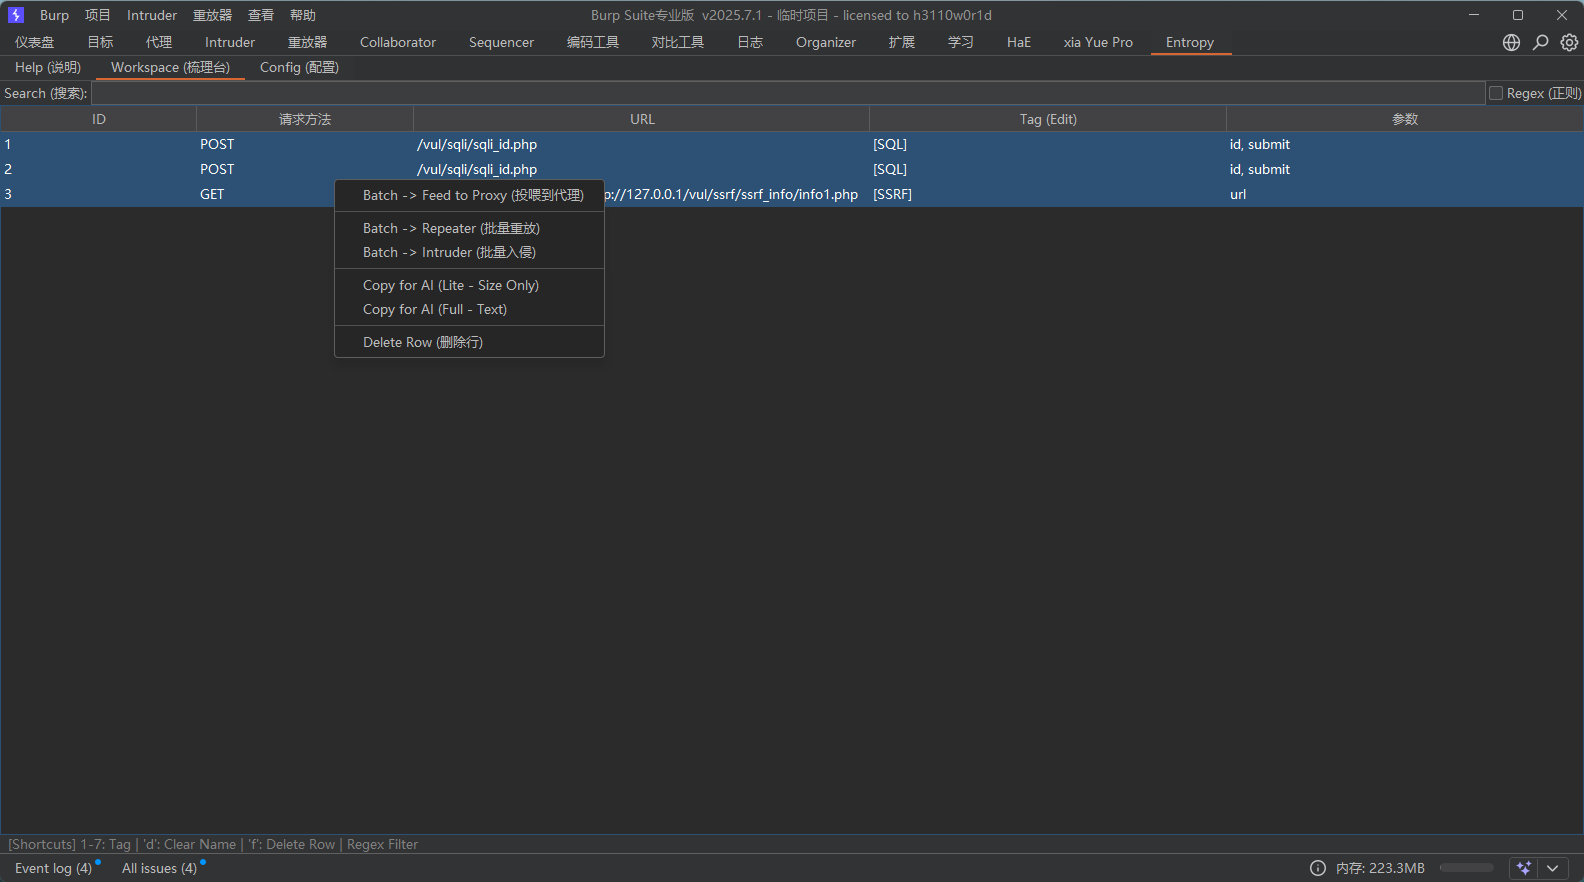
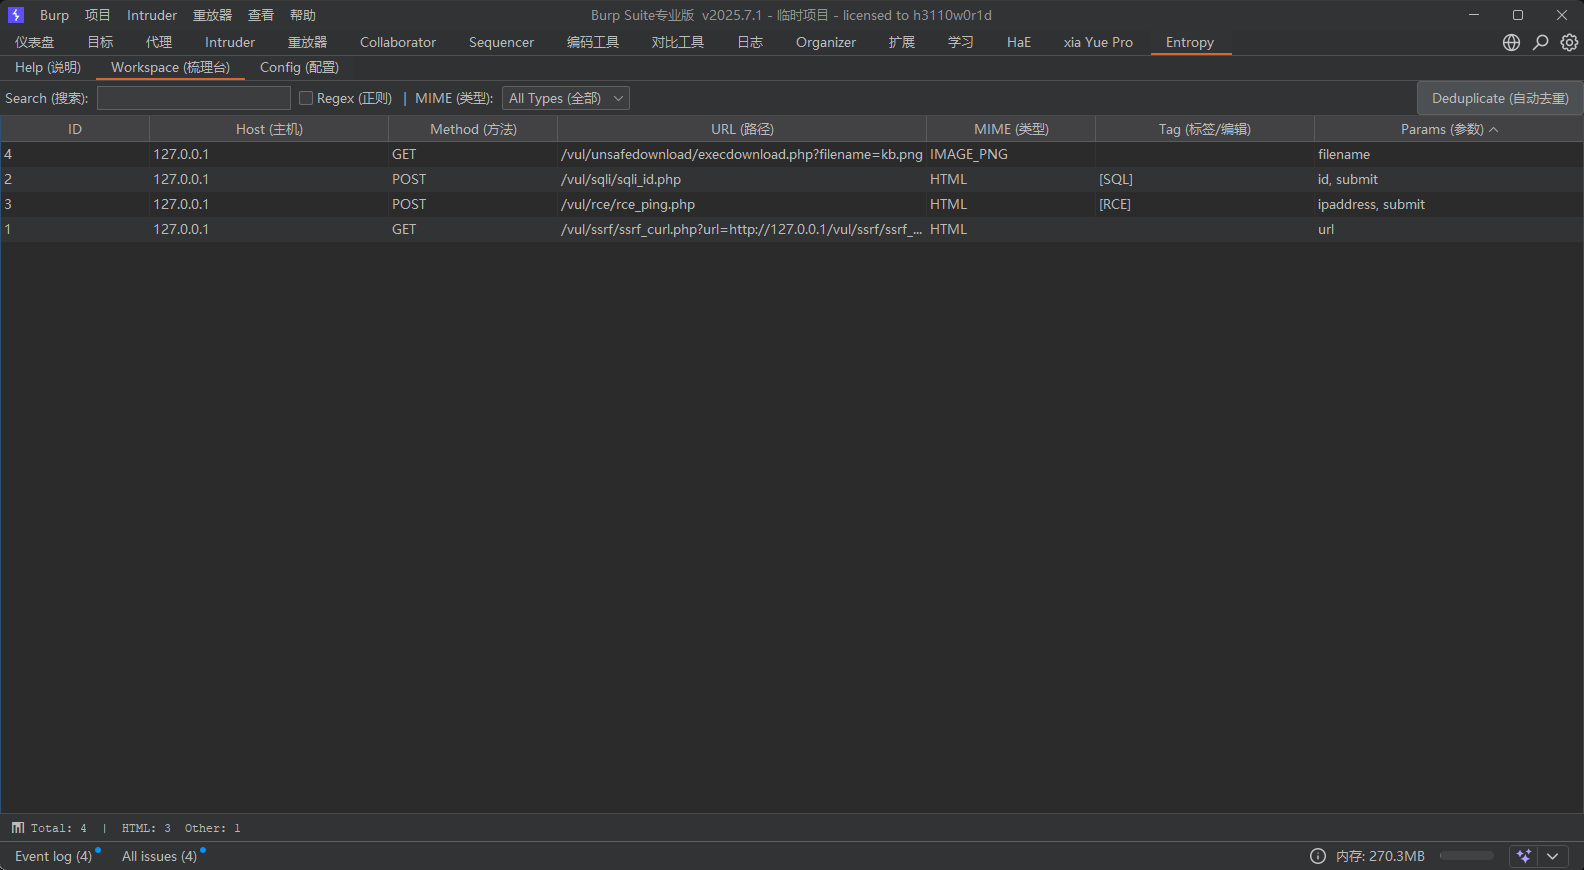
Update: Enhance Workspace context menu with full features (Intruder, AI Copy)

diff --git a/Tools/Entropy/README.md b/Tools/Entropy/README.md
@@ -1,90 +1,150 @@
-# Entropy
-**Burp Suite Workflow Enhancement Tool / Burp Suite 工作流增强工具**
-
-[![Release](https://img.shields.io/github/v/release/xgbtxy/Negentropy-Collective?include_prereleases&style=flat-square)](https://github.com/xgbtxy/Negentropy-Collective/releases)
-[![Author](https://img.shields.io/badge/Author-xgbtxy-blue?style=flat-square)](https://github.com/xgbtxy)
-
-**Entropy** is a Burp Suite extension designed to streamline traffic analysis and automate workflows between Burp and other scanners (like Xray). It bridges the gap between manual analysis and automated scanning.
-
-**Entropy** 是一款 Burp Suite 扩展插件，旨在优化流量分析流程，并打通 Burp 与其他扫描器（如 Xray）之间的自动化工作流。它有效连接了人工分析与自动化扫描的断层。
-
----
-
-## 🚀 Key Features / 核心功能
-
-### 1. Advanced Workspace (流量梳理台)
-A dedicated tab to manage and analyze interesting packets without cluttering your HTTP history.
-一个独立的操作台，用于管理和分析感兴趣的数据包，避免污染主历史记录。
-
-* **Smart Filtering:** Search packets using **Regex** or **Keywords**.
-    (智能过滤：支持正则表达式或关键字快速检索数据包。)
-* **Tagging System:** Custom tags and notes added in the Workspace will **auto-sync to Repeater tab titles**, making it easy to identify tabs.
-    (标签联动：在梳理台修改的备注或标签，会自动同步修改 Repeater 的标签页标题，便于识别。)
-* **Quick Actions:** Support custom hotkeys for rapid marking.
-    (快捷操作：支持自定义快捷键进行快速标记。)
-
-### 2. Batch Operations (批量联动)
-* **Batch Feed to Proxy:** Select multiple "valuable" packets and forward them to a local listening proxy (e.g., **Xray**, Rad) for targeted fuzzing.
-    (批量投喂被动扫描：选中多个有价值的数据包，一键转发给本地监听器（如 Xray/Rad 挂的代理）进行定向漏洞 Fuzz。)
-* **Batch to Repeater/Intruder:** Send multiple selected requests to Repeater or Intruder simultaneously.
-    (批量发送：支持批量发送数据包至重发器或攻击器。)
-
-### 3. AI-Optimized Copy (AI 辅助复制模式)
-* **Lite Copy (For AI/LLM):** Batch copy requests and response headers, but **replace the large response body with a size placeholder**.
-    (AI 轻量复制：批量复制请求包和响应头，但**自动用“数据包大小占位符”替换庞大的响应体**。)
-* **Benefit:** Analyze logic with ChatGPT/Claude without hitting token limits or extra costs.
-    (优势：在保留核心逻辑的前提下极大节省 Token，完美适配 GPT/Claude 分析场景。)
-
----
-
-## 📦 Installation / 安装说明
-
-1.  **Download / 下载**:
-    Download the latest `Entropy.jar` from the [Releases Page](../../../releases).
-    (前往 Releases 页面下载最新的 `Entropy.jar`。)
-
-2.  **Install / 安装**:
-    * Open Burp Suite. (打开 Burp Suite。)
-    * Go to **Extensions** -> **Installed**. (点击 Extensions -> Installed。)
-    * Click **Add**. (点击 Add 按钮。)
-    * Select **Java** as the extension type. (选择 Java 类型。)
-    * Select the downloaded `Entropy.jar`. (选中下载好的 jar 文件。)
-
----
-
-## 📖 Usage / 使用指南
-
-1.  **Right-Click Menu (右键菜单)**:
-    Right-click on any request in HTTP History to access the `Entropy` menu.
-    (在 HTTP 历史记录中右键点击任意数据包，即可看到 `Entropy` 菜单。)
-
-2.  **Send to Workspace (发送到梳理台)**:
-    Move specific packets to the `Workspace` tab for regex analysis and tagging.
-    (将特定数据包发送到 `Workspace` 标签页，进行正则分析和标记。)
-
-3.  **Feed to Proxy (投喂到代理)**:
-    Select multiple requests -> `Entropy` -> `Batch -> Feed to Proxy`.
-    (选中多个请求 -> `Entropy` -> `Batch -> Feed to Proxy`，将其转发给 Xray 等扫描器。)
-    * *Note: Configure the target proxy address in the `Config` tab.*
-    * *(注：请在 `Config` 标签页配置目标代理地址。)*
-
-4.  **Copy for AI (AI 复制)**:
-    Select requests -> `Entropy` -> `Copy for AI (Lite - Size Only)`. Paste the result to ChatGPT.
-    (选中请求 -> `Entropy` -> `Copy for AI (Lite - Size Only)`。将结果粘贴给 ChatGPT 进行分析。)
-
----
-
-## 🛠 Compilation / 编译指南 (Optional)
-
-If you want to build from source:
-如果你想从源码编译：
-
-```bash
-# Clone the repository
-git clone https://github.com/xgbtxy/Negentropy-Collective.git
-
-# Navigate to the tool directory
-cd Negentropy-Collective/Tools/Entropy
-
-# Build with Gradle
-./gradlew build
+> # Entropy (恩戳皮)
+>
+> ### Burp Suite 流量负熵 (Traffic Negentropy)
+>
+> > **🧭 设计理念：** 只为了让你的渗透测试流程，哪怕减少 1分钟。
+>
+> **Entropy** 是一款专为 Burp Suite 打造的流量梳理与资产管理插件。它引入了独立的 “梳理台 (Workspace)” 概念，让你能从杂乱无章的 Proxy 历史中抽离出高价值资产，通过 **全键盘工作流** 进行极速标记、清洗，并实现一键投喂给 Xray/Rad 等被动扫描器。
+>
+> [👇 English Version Below / 向下滚动查看英文版](<a name="entropy-english"></a>)
+>
+> ------
+>
+> ## 📸 界面预览 (Screenshots)
+>
+> *(注：如果图片无法加载，请检查网络是否能访问 GitHub 资源)*
+>
+> ------
+>
+> ## ✨ 核心功能 (Core Features)
+>
+> ### 1. 🎯 梳理台 (The Workspace)
+>
+> **拒绝噪点，只留精华。** 不再被 Proxy History 中成千上万的图片和 JS 干扰。
+>
+> - **🧹 资产清洗:** 将感兴趣的数据包发送到 Workspace，建立你的“低熵”资产库。
+> - **📊 MIME 仪表盘:** 底部实时统计 JSON, HTML, API 等各类资产数量，一目了然。
+> - **🧬 智能去重:** 点击按钮，自动根据 `Host + Method + URL + Params` 指纹清除重复请求。
+> - **🔍 高级搜索:**
+>   - **Regex:** 支持正则表达式（如 `login|admin|upload`）。
+>   - **Keyword:** 支持普通关键字匹配（不区分大小写）。
+>
+> ### 2. 🎹 极速键盘流 (Keyboard Flow)
+>
+> **告别右键，建立肌肉记忆。** 在梳理台选中行即可操作：
+>
+> | **快捷键** | **功能**       | **描述**                                   |
+> | ---------- | -------------- | ------------------------------------------ |
+> | **1 - 7**  | 🏷 **快速打标** | `1=[SQL]`, `2=[XSS]`... (支持自定义)       |
+> | **d**      | 🧹 **清除标记** | 误判撤销，一键清空标签                     |
+> | **f**      | 🗑 **删除行**   | 快速移除无用资产                           |
+> | **q**      | 🔗 **投喂代理** | 发送给 Xray/Rad 等被动扫描器               |
+> | **w**      | 🔁 **重放器**   | 发送到 Burp Repeater                       |
+> | **e**      | 💣 **攻击器**   | 发送到 Burp Intruder                       |
+> | **c**      | 📋 **极简复制** | 仅复制 Header 和状态码 (适合 AI 分析)      |
+> | **C**      | 📑 **完整复制** | 复制完整包 (自动处理二进制防截断，Shift+c) |
+>
+> *(注：所有快捷键均可在 Config 页面自定义或禁用)*
+>
+> ### 3. 🔗 被动扫描联动 (Proxy Linkage)
+>
+> **人工筛选 + 自动化扫描 = 完美闭环。**
+>
+> 1. 在 Config 页配置被动扫描器地址（如 `127.0.0.1:7777`）。
+> 2. 在梳理台选中请求，按 **`q`** 键。
+> 3. 流量在后台静默转发，不干扰当前操作，实现“指哪打哪”。
+>
+> ### 4. 🤖 AI 智能复制 (Smart Copy)
+>
+> 专为投喂 ChatGPT/Claude/DeepSeek 设计。
+>
+> - **Copy Lite (`c`):** 丢弃响应体，只保留 Header。极大节省 Token，让 AI 专注于逻辑分析。
+> - **Copy Full (`Shift+c`):** 保留文本，但自动检测并占位二进制数据（图片/压缩包）和空字节，防止剪贴板截断 bug。
+>
+> ------
+>
+> ## 🚀 快速开始 (Quick Start)
+>
+> 1. **下载:** 获取最新版本的 `Entropy.jar`。
+> 2. **安装:** Burp Suite -> Extensions -> Add -> 选择 `Entropy.jar`。
+> 3. **使用:**
+>    - Proxy 右键 -> **Send to Workspace**。
+>    - 进入 Entropy 标签页，开始你的键盘流操作。
+>
+> ## ⚙ 配置说明 (Configuration)
+>
+> 在 Config 标签页中，你可以：
+>
+> - **⌨ 自定义快捷键:** 不习惯 QWER？改为你喜欢的键位。
+> - **🌐 代理设置:** 支持 HTTP 和 SOCKS5 代理。
+> - **🧩 自动提取:** 开关是否自动解析 URL 和 JSON 参数。
+>
+> ## ⚠ 安全声明
+>
+> > 本工具仅面向合法授权的企业安全建设、渗透测试及红队演练。请使用者务必遵守当地网络安全法律法规。严禁利用本工具从事任何非法的攻击行为。
+>
+> ------
+>
+> <a name="entropy-english"></a>
+>
+> # Entropy (English)
+>
+> **Traffic Negentropy for Burp Suite.**
+>
+> > **Philosophy:** To save just 1 minute in your penetration testing workflow.
+>
+> Entropy is a Burp Suite extension designed to optimize traffic organization. It provides an independent **Workspace** to extract valuable assets from the chaotic Proxy history, clean them via **keyboard shortcuts**, and feed them to passive scanners (like Xray/Rad) with one click.
+>
+> ## ✨ Features
+>
+> ### 1. 🎯 The Workspace
+>
+> No more noise from thousands of images and JS files in Proxy History.
+>
+> - **Assets Cleaning:** Send interesting packets to Workspace to build your "Low Entropy" asset library.
+> - **MIME Dashboard:** Real-time statistics for JSON, HTML, API, etc. at the bottom bar.
+> - **Smart Deduplication:** Click Deduplicate to remove duplicates based on fingerprint.
+> - **Advanced Search:** Regex & Keyword support.
+>
+> ### 2. 🎹 Keyboard Flow
+>
+> Say goodbye to context menus.
+>
+> | **Key**   | **Action**     | **Description**                  |
+> | --------- | -------------- | -------------------------------- |
+> | **1 - 7** | **Tagging**    | Quick tags like `[SQL]`, `[XSS]` |
+> | **d**     | **Clear**      | Clear current tags               |
+> | **f**     | **Delete**     | Remove row                       |
+> | **q**     | **Feed Proxy** | Send to passive scanner          |
+> | **w**     | **Repeater**   | Send to Repeater                 |
+> | **e**     | **Intruder**   | Send to Intruder                 |
+> | **c**     | **Copy Lite**  | Headers only (Save tokens)       |
+> | **C**     | **Copy Full**  | Full text (Binary safe, Shift+c) |
+>
+> ### 3. 🔗 Proxy Linkage
+>
+> "Manual Filtering + Automated Scanning" loop.
+>
+> 1. Configure scanner address in Config tab.
+> 2. Select requests, press **`q`**.
+> 3. Traffic is forwarded silently in the background.
+>
+> ### 4. 🤖 Smart Copy for AI
+>
+> - **Copy Lite (`c`):** Drops response body. Saves tokens.
+> - **Copy Full (`Shift+c`):** Keeps text, auto-masks binary data to prevent clipboard truncation.
+>
+> ## 🚀 Installation
+>
+> 1. **Download:** Get the latest `Entropy.jar` from Releases.
+> 2. **Install:** Open Burp Suite -> Extensions -> Add -> Select `Entropy.jar`.
+>
+> ## ⚙ Configuration
+>
+> - **Customize Shortcuts:** Change keys or disable them.
+> - **Proxy Settings:** HTTP / SOCKS5 supported.
+> - **Auto Extract:** Toggle parameter parsing.
+>
+> ## ⚠ Security Disclaimer
+>
+> This tool is intended for legally authorized use only. Do not use it for illegal purposes.
